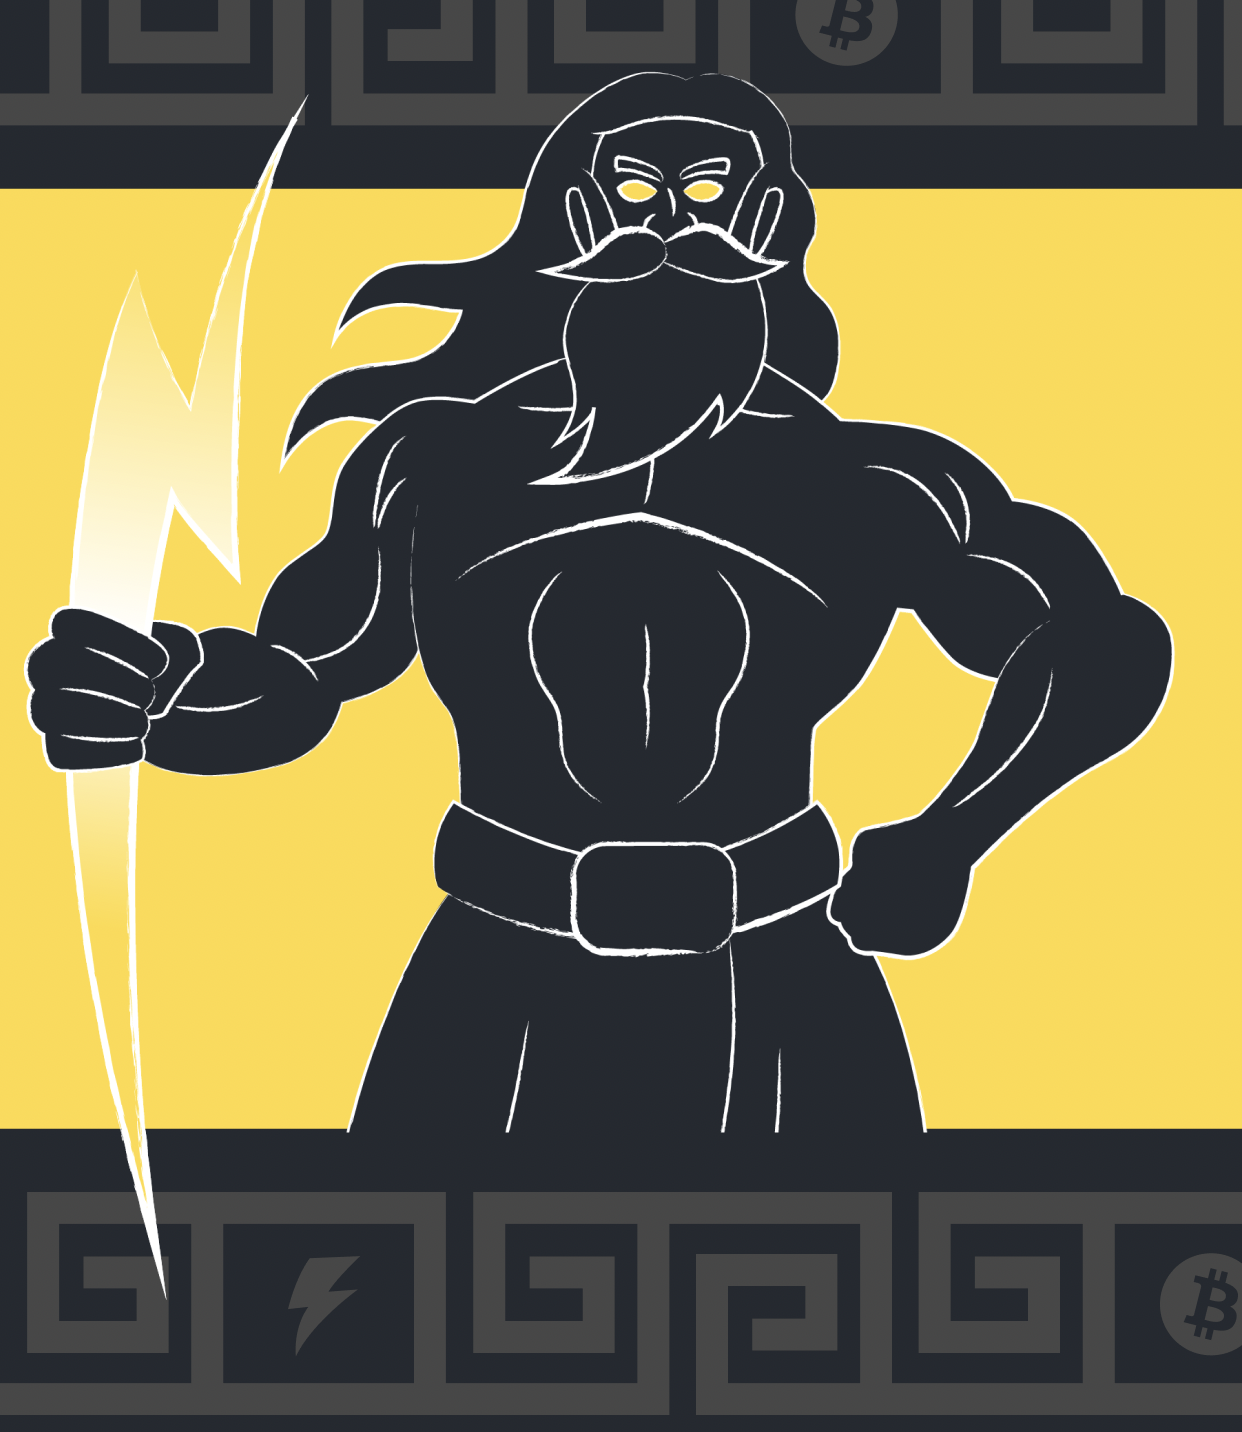
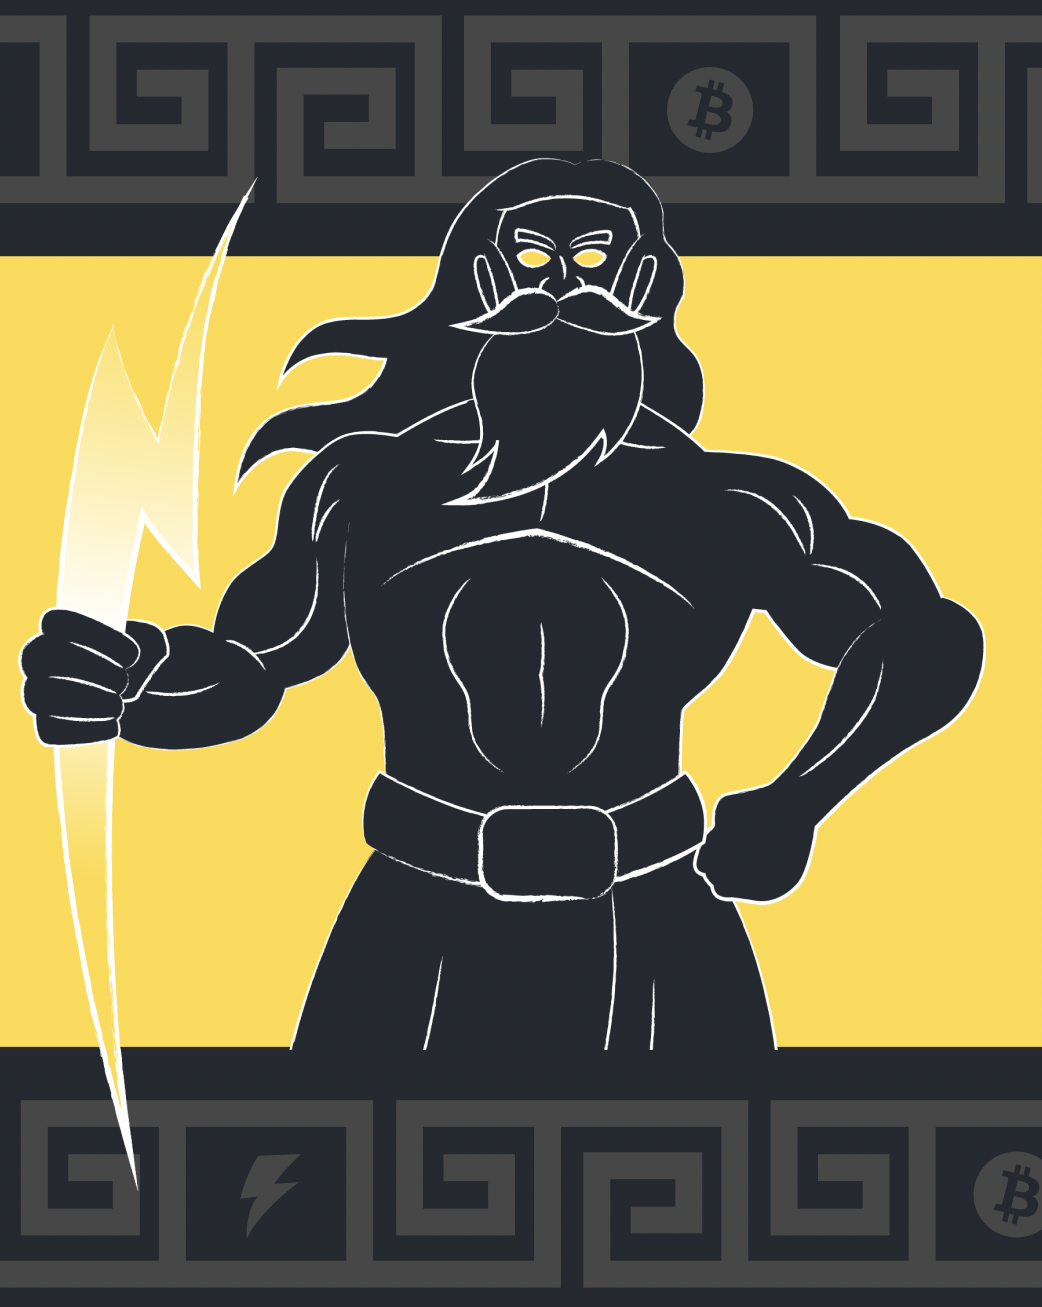
Intro Tweaks - iPhone 12 (#862)

diff --git a/views/Intro.tsx b/views/Intro.tsx
@@ -70,14 +70,15 @@ export default class Intro extends React.Component<IntroProps, IntroState> {
                     source={item.illustration}
                     style={{
                         width: this.screenWidth,
-                        height: this.screenHeight - 200
+                        height: '65%'
                     }}
                 />
                 <View
                     style={{
                         backgroundColor: themeColor('background'),
                         width: '100%',
-                        bottom: 45
+                        flexGrow: 1,
+                        justifyContent: 'flex-end'
                     }}
                 >
                     <Text
@@ -93,14 +94,11 @@ export default class Intro extends React.Component<IntroProps, IntroState> {
                     </Text>
                     <Text
                         style={{
-                            fontSize: 18,
+                            fontSize: 20,
                             color: themeColor('secondaryText'),
                             fontFamily: 'Lato-Regular',
                             alignSelf: 'center',
-                            paddingLeft: 10,
-                            paddingRight: 10,
-                            paddingTop: 6,
-                            paddingBottom: 8
+                            padding: 10
                         }}
                     >
                         {item.text}
@@ -151,6 +149,11 @@ export default class Intro extends React.Component<IntroProps, IntroState> {
                     inactiveDotScale={0.6}
                     carouselRef={this.carousel}
                     tappableDots={!!this.carousel}
+                    containerStyle={{
+                        backgroundColor: 'transparent',
+                        marginTop: -30,
+                        marginBottom: -25
+                    }}
                 />
             </SafeAreaView>
         );

diff --git a/stores/InvoicesStore.ts b/stores/InvoicesStore.ts
@@ -7,7 +7,6 @@ import querystring from 'querystring-es3';
 import hashjs from 'hash.js';
 import Invoice from './../models/Invoice';
 import SettingsStore from './SettingsStore';
-import Base64Utils from './../utils/Base64Utils';
 import RESTUtils from './../utils/RESTUtils';
 import { localeString } from './../utils/LocaleUtils';
 

diff --git a/views/UTXOs/CoinControl.tsx b/views/UTXOs/CoinControl.tsx
@@ -10,7 +10,6 @@ import { localeString } from './../../utils/LocaleUtils';
 import RESTUtils from './../../utils/RESTUtils';
 import { themeColor } from './../../utils/ThemeUtils';
 
-import SettingsStore from './../../stores/SettingsStore';
 import UTXOsStore from './../../stores/UTXOsStore';
 
 interface CoinControlProps {
